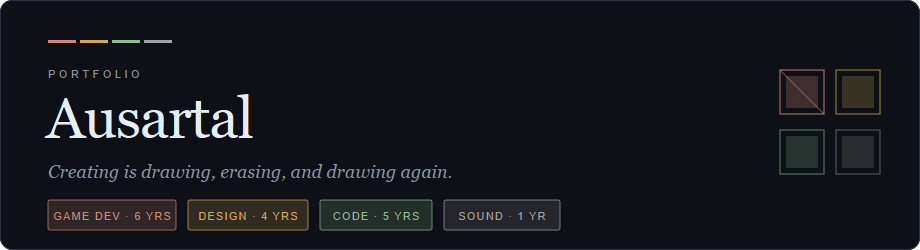
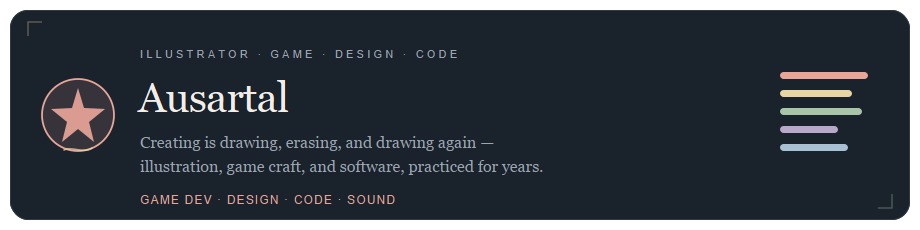
Pastel illustrator hero; Practice full-width without side image

Changed region(s): [[0.0, 0.0, 1.0, 1.0], [0.1522, 0.213, 0.3348, 0.2739], [0.3652, 0.213, 0.5174, 0.2739]]

diff --git a/gen_assets.py b/gen_assets.py
@@ -1,239 +1,83 @@
-"""Generate colored-but-flat hero + API-driven stats panel."""
-import cairosvg, json, os, base64
+import cairosvg
 from pathlib import Path
-from urllib.request import Request, urlopen
 
 OUT = Path(r"C:\Users\ahmad\Documents\College\Subjects\Data Mining\github-profile\assets")
-TOKEN = os.environ.get("GH_TOKEN", "")
 
-INK = "#0D1117"
-PANEL = "#11171F"
-LINE = "#2A3340"
-MUTED = "#8B949E"
-PAPER = "#E6EDF3"
+# Pastel, refined — illustrator studio, not AI neon
+INK = "#121820"
+PANEL = "#1A222B"
+LINE = "#2F3A45"
+MUTED = "#9AA5B1"
+PAPER = "#F2EDE6"
 
-# warm, flat accents (no glow / no radial)
-CLAY = "#D08770"
-GOLD = "#D4A857"
-SAGE = "#8FBC8F"
-STONE = "#A8A29E"
+# pastel accents
+CORAL = "#E8A598"   # soft coral
+BUTTER = "#E8D5A3"  # butter
+SAGE = "#A8C5A8"    # sage
+LILAC = "#B8A9C9"   # lilac
+SKY = "#A8C0D4"     # dusty sky
 
-def gh(path):
-    req = Request(f"https://api.github.com{path}", headers={
-        "Authorization": f"Bearer {TOKEN}",
-        "User-Agent": "ausartal-profile",
-        "Accept": "application/vnd.github+json",
-    })
-    with urlopen(req, timeout=30) as r:
-        return json.loads(r.read())
+hero = f'''<svg xmlns="http://www.w3.org/2000/svg" width="920" height="230" viewBox="0 0 920 230">
+  <!-- card -->
+  <rect x="10" y="10" width="900" height="210" rx="18" fill="{PANEL}"/>
+  <rect x="10.5" y="10.5" width="899" height="209" rx="17.5" fill="none" stroke="{LINE}"/>
 
-user = gh("/users/ausartal")
-repos = gh("/users/ausartal/repos?per_page=100&sort=updated")
-langs = {}
-for repo in repos:
-    if repo.get("fork") or not repo.get("language"):
-        continue
-    langs[repo["language"]] = langs.get(repo["language"], 0) + 1
-top = sorted(langs.items(), key=lambda x: -x[1])[:5]
-maxc = top[0][1] if top else 1
+  <!-- illustrator mark: nib / pen star hybrid -->
+  <circle cx="78" cy="115" r="36" stroke="{CORAL}" stroke-width="1.8" fill="{CORAL}" fill-opacity="0.14"/>
+  <path d="M78 88 L 84 108 L 105 109 L 89 122 L 94 142 L 78 129 L 62 142 L 67 122 L 51 109 L 72 108 Z" fill="{CORAL}" opacity="0.92"/>
+  <!-- nib stroke under star -->
+  <path d="M64 150 C 72 146, 84 154, 92 148" stroke="{BUTTER}" stroke-width="1.6" stroke-linecap="round" fill="none" opacity="0.75"/>
 
-# ── HERO: colored, flat ──────────────────────────────────
-hero = f'''<svg xmlns="http://www.w3.org/2000/svg" width="920" height="250" viewBox="0 0 920 250">
-  <rect width="920" height="250" rx="12" fill="{INK}"/>
-  <rect x="0.5" y="0.5" width="919" height="249" rx="11.5" fill="none" stroke="{LINE}"/>
+  <!-- overline -->
+  <text x="140" y="58" font-family="ui-monospace, SFMono-Regular, Menlo, monospace" font-size="11" fill="{MUTED}" letter-spacing="3.2">ILLUSTRATOR  ·  GAME  ·  DESIGN  ·  CODE</text>
 
-  <!-- color rules, flat -->
-  <rect x="48" y="40" width="28" height="3" fill="{CLAY}"/>
-  <rect x="80" y="40" width="28" height="3" fill="{GOLD}"/>
-  <rect x="112" y="40" width="28" height="3" fill="{SAGE}"/>
-  <rect x="144" y="40" width="28" height="3" fill="{STONE}"/>
+  <!-- name -->
+  <text x="138" y="112" font-family="Georgia, 'Times New Roman', serif" font-size="42" fill="{PAPER}" letter-spacing="-0.8">Ausartal</text>
 
-  <text x="48" y="78" font-family="ui-monospace, SFMono-Regular, Menlo, monospace" font-size="11" fill="{MUTED}" letter-spacing="3.5">PORTFOLIO</text>
+  <!-- subtitle -->
+  <text x="140" y="148" font-family="Georgia, 'Times New Roman', serif" font-size="16" fill="{MUTED}">Creating is drawing, erasing, and drawing again —</text>
+  <text x="140" y="172" font-family="Georgia, 'Times New Roman', serif" font-size="16" fill="{MUTED}">illustration, game craft, and software, practiced for years.</text>
 
-  <text x="46" y="138" font-family="Georgia, 'Times New Roman', serif" font-size="58" fill="{PAPER}" letter-spacing="-1.2">Ausartal</text>
+  <!-- badge line -->
+  <text x="140" y="204" font-family="ui-monospace, SFMono-Regular, Menlo, monospace" font-size="12" fill="{CORAL}" letter-spacing="1.15">GAME DEV  ·  DESIGN  ·  CODE  ·  SOUND</text>
 
-  <text x="48" y="178" font-family="Georgia, 'Times New Roman', serif" font-style="italic" font-size="18" fill="{MUTED}">Creating is drawing, erasing, and drawing again.</text>
+  <!-- pastel accent bars -->
+  <rect x="780" y="72" width="88" height="7" rx="3.5" fill="{CORAL}"/>
+  <rect x="780" y="90" width="72" height="7" rx="3.5" fill="{BUTTER}"/>
+  <rect x="780" y="108" width="82" height="7" rx="3.5" fill="{SAGE}"/>
+  <rect x="780" y="126" width="58" height="7" rx="3.5" fill="{LILAC}"/>
+  <rect x="780" y="144" width="68" height="7" rx="3.5" fill="{SKY}"/>
 
-  <!-- colored flat chips -->
-  <g font-family="ui-monospace, SFMono-Regular, Menlo, monospace" font-size="11">
-    <rect x="48" y="200" width="128" height="30" rx="2" fill="{CLAY}" fill-opacity="0.18" stroke="{CLAY}" stroke-opacity="0.7"/>
-    <text x="112" y="220" text-anchor="middle" fill="{CLAY}" letter-spacing="1.2">GAME DEV · 6 YRS</text>
-
-    <rect x="188" y="200" width="120" height="30" rx="2" fill="{GOLD}" fill-opacity="0.18" stroke="{GOLD}" stroke-opacity="0.7"/>
-    <text x="248" y="220" text-anchor="middle" fill="{GOLD}" letter-spacing="1.2">DESIGN · 4 YRS</text>
-
-    <rect x="320" y="200" width="112" height="30" rx="2" fill="{SAGE}" fill-opacity="0.18" stroke="{SAGE}" stroke-opacity="0.7"/>
-    <text x="376" y="220" text-anchor="middle" fill="{SAGE}" letter-spacing="1.2">CODE · 5 YRS</text>
-
-    <rect x="444" y="200" width="116" height="30" rx="2" fill="{STONE}" fill-opacity="0.15" stroke="{STONE}" stroke-opacity="0.7"/>
-    <text x="502" y="220" text-anchor="middle" fill="{STONE}" letter-spacing="1.2">SOUND · 1 YR</text>
-  </g>
-
-  <!-- flat geometric, no glow -->
-  <g fill="none" stroke-width="1.2">
-    <rect x="780" y="70" width="44" height="44" stroke="{CLAY}" stroke-opacity="0.75"/>
-    <line x1="780" y1="70" x2="824" y2="114" stroke="{CLAY}" stroke-opacity="0.45"/>
-    <rect x="836" y="70" width="44" height="44" stroke="{GOLD}" stroke-opacity="0.65"/>
-    <rect x="780" y="130" width="44" height="44" stroke="{SAGE}" stroke-opacity="0.55"/>
-    <rect x="836" y="130" width="44" height="44" stroke="{STONE}" stroke-opacity="0.45"/>
-  </g>
-  <g>
-    <rect x="786" y="76" width="32" height="32" fill="{CLAY}" fill-opacity="0.25"/>
-    <rect x="842" y="76" width="32" height="32" fill="{GOLD}" fill-opacity="0.22"/>
-    <rect x="786" y="136" width="32" height="32" fill="{SAGE}" fill-opacity="0.2"/>
-    <rect x="842" y="136" width="32" height="32" fill="{STONE}" fill-opacity="0.18"/>
-  </g>
+  <!-- soft corner ticks -->
+  <path d="M28 36 L 28 22 L 42 22" stroke="{BUTTER}" stroke-width="1.2" opacity="0.4" fill="none"/>
+  <path d="M892 194 L 892 208 L 878 208" stroke="{SAGE}" stroke-width="1.2" opacity="0.4" fill="none"/>
 </svg>'''
 
-# ── FIGURES: colored numbers, flat ───────────────────────
-figures = f'''<svg xmlns="http://www.w3.org/2000/svg" width="920" height="180" viewBox="0 0 920 180">
-  <rect width="920" height="180" rx="10" fill="{INK}"/>
-  <rect x="0.5" y="0.5" width="919" height="179" rx="9.5" fill="none" stroke="{LINE}"/>
+# Practice panel used as full-width strip under Practice text (optional header art)
+practice = f'''<svg xmlns="http://www.w3.org/2000/svg" width="920" height="120" viewBox="0 0 920 120">
+  <rect x="10" y="10" width="900" height="100" rx="14" fill="{PANEL}"/>
+  <rect x="10.5" y="10.5" width="899" height="99" rx="13.5" fill="none" stroke="{LINE}"/>
 
-  <text x="36" y="36" font-family="ui-monospace, SFMono-Regular, Menlo, monospace" font-size="10" fill="{MUTED}" letter-spacing="3">SELECTED FIGURES</text>
-  <rect x="36" y="46" width="28" height="2" fill="{CLAY}"/>
-  <rect x="68" y="46" width="28" height="2" fill="{GOLD}"/>
-  <rect x="100" y="46" width="28" height="2" fill="{SAGE}"/>
-  <rect x="132" y="46" width="28" height="2" fill="{STONE}"/>
+  <text x="36" y="42" font-family="ui-monospace, SFMono-Regular, Menlo, monospace" font-size="10" fill="{MUTED}" letter-spacing="2.8">YEARS OF PRACTICE</text>
 
-  <text x="36" y="110" font-family="Georgia, 'Times New Roman', serif" font-size="52" fill="{CLAY}">06</text>
-  <text x="36" y="138" font-family="Georgia, 'Times New Roman', serif" font-size="13" fill="{PAPER}">years making games</text>
-  <text x="36" y="158" font-family="ui-monospace, SFMono-Regular, Menlo, monospace" font-size="9" fill="{MUTED}" letter-spacing="1.4">UNREAL · GODOT · UNITY · RBLX</text>
+  <!-- pastel mini-bars full width -->
+  <rect x="36" y="58" width="200" height="6" rx="3" fill="{CORAL}"/>
+  <rect x="248" y="58" width="140" height="6" rx="3" fill="{BUTTER}"/>
+  <rect x="400" y="58" width="175" height="6" rx="3" fill="{SAGE}"/>
+  <rect x="587" y="58" width="40" height="6" rx="3" fill="{LILAC}"/>
 
-  <line x1="230" y1="64" x2="230" y2="158" stroke="{LINE}"/>
+  <text x="36" y="88" font-family="Georgia, 'Times New Roman', serif" font-size="13" fill="{PAPER}">06 games</text>
+  <text x="150" y="88" font-family="Georgia, 'Times New Roman', serif" font-size="13" fill="{MUTED}">04 design</text>
+  <text x="270" y="88" font-family="Georgia, 'Times New Roman', serif" font-size="13" fill="{MUTED}">05 code</text>
+  <text x="380" y="88" font-family="Georgia, 'Times New Roman', serif" font-size="13" fill="{MUTED}">01 sound</text>
 
-  <text x="270" y="110" font-family="Georgia, 'Times New Roman', serif" font-size="52" fill="{GOLD}">04</text>
-  <text x="270" y="138" font-family="Georgia, 'Times New Roman', serif" font-size="13" fill="{PAPER}">years designing</text>
-  <text x="270" y="158" font-family="ui-monospace, SFMono-Regular, Menlo, monospace" font-size="9" fill="{MUTED}" letter-spacing="1.4">FIGMA · MAYA · ADOBE · CSP</text>
-
-  <line x1="470" y1="64" x2="470" y2="158" stroke="{LINE}"/>
-
-  <text x="510" y="110" font-family="Georgia, 'Times New Roman', serif" font-size="52" fill="{SAGE}">05</text>
-  <text x="510" y="138" font-family="Georgia, 'Times New Roman', serif" font-size="13" fill="{PAPER}">years writing code</text>
-  <text x="510" y="158" font-family="ui-monospace, SFMono-Regular, Menlo, monospace" font-size="9" fill="{MUTED}" letter-spacing="1.4">C · C++ · C# · PYTHON · TS</text>
-
-  <line x1="710" y1="64" x2="710" y2="158" stroke="{LINE}"/>
-
-  <text x="750" y="110" font-family="Georgia, 'Times New Roman', serif" font-size="52" fill="{STONE}">01</text>
-  <text x="750" y="138" font-family="Georgia, 'Times New Roman', serif" font-size="13" fill="{PAPER}">year scoring sound</text>
-  <text x="750" y="158" font-family="ui-monospace, SFMono-Regular, Menlo, monospace" font-size="9" fill="{MUTED}" letter-spacing="1.4">FL STUDIO · CAKEWALK</text>
+  <rect x="800" y="36" width="64" height="6" rx="3" fill="{CORAL}" opacity="0.7"/>
+  <rect x="800" y="52" width="52" height="6" rx="3" fill="{BUTTER}" opacity="0.7"/>
+  <rect x="800" y="68" width="58" height="6" rx="3" fill="{SAGE}" opacity="0.7"/>
 </svg>'''
 
-# ── PRACTICE bars: colored flat ──────────────────────────
-practice = f'''<svg xmlns="http://www.w3.org/2000/svg" width="400" height="300" viewBox="0 0 400 300">
-  <rect width="400" height="300" rx="10" fill="{PANEL}"/>
-  <rect x="0.5" y="0.5" width="399" height="299" rx="9.5" fill="none" stroke="{LINE}"/>
-
-  <text x="28" y="40" font-family="ui-monospace, SFMono-Regular, Menlo, monospace" font-size="10" fill="{MUTED}" letter-spacing="2.5">YEARS OF PRACTICE</text>
-  <rect x="28" y="50" width="48" height="2" fill="{CLAY}"/>
-
-  <text x="28" y="92" font-family="Georgia, 'Times New Roman', serif" font-size="14" fill="{PAPER}">Game Development</text>
-  <text x="360" y="92" font-family="Georgia, 'Times New Roman', serif" font-size="20" fill="{CLAY}" text-anchor="end">6</text>
-  <rect x="28" y="104" width="332" height="4" fill="#21262D"/>
-  <rect x="28" y="104" width="332" height="4" fill="{CLAY}"/>
-
-  <text x="28" y="146" font-family="Georgia, 'Times New Roman', serif" font-size="14" fill="{PAPER}">Illustration &amp; Design</text>
-  <text x="360" y="146" font-family="Georgia, 'Times New Roman', serif" font-size="20" fill="{GOLD}" text-anchor="end">4</text>
-  <rect x="28" y="158" width="332" height="4" fill="#21262D"/>
-  <rect x="28" y="158" width="221" height="4" fill="{GOLD}"/>
-
-  <text x="28" y="200" font-family="Georgia, 'Times New Roman', serif" font-size="14" fill="{PAPER}">Code &amp; Engineering</text>
-  <text x="360" y="200" font-family="Georgia, 'Times New Roman', serif" font-size="20" fill="{SAGE}" text-anchor="end">5</text>
-  <rect x="28" y="212" width="332" height="4" fill="#21262D"/>
-  <rect x="28" y="212" width="276" height="4" fill="{SAGE}"/>
-
-  <text x="28" y="254" font-family="Georgia, 'Times New Roman', serif" font-size="14" fill="{PAPER}">Music &amp; Sound</text>
-  <text x="360" y="254" font-family="Georgia, 'Times New Roman', serif" font-size="20" fill="{STONE}" text-anchor="end">1</text>
-  <rect x="28" y="266" width="332" height="4" fill="#21262D"/>
-  <rect x="28" y="266" width="62" height="4" fill="{STONE}"/>
-</svg>'''
-
-# ── STATS panel from live API (replaces broken vercel widgets) ──
-def esc(s):
-    return (s or "").replace("&", "&amp;").replace("<", "&lt;").replace(">", "&gt;")
-
-lang_rows = []
-colors = [CLAY, GOLD, SAGE, STONE, MUTED]
-for i, (name, count) in enumerate(top):
-    y = 86 + i * 28
-    w = int(180 * (count / maxc))
-    c = colors[i % len(colors)]
-    lang_rows.append(
-        f'<text x="36" y="{y}" font-family="ui-monospace, SFMono-Regular, Menlo, monospace" font-size="12" fill="{PAPER}">{esc(name)}</text>\n'
-        f'  <rect x="160" y="{y-10}" width="180" height="6" fill="#21262D"/>\n'
-        f'  <rect x="160" y="{y-10}" width="{max(w,8)}" height="6" fill="{c}"/>\n'
-        f'  <text x="356" y="{y}" font-family="ui-monospace, SFMono-Regular, Menlo, monospace" font-size="11" fill="{MUTED}">{count}</text>'
-    )
-
-stars = sum(r.get("stargazers_count", 0) or 0 for r in repos)
-stats = f'''<svg xmlns="http://www.w3.org/2000/svg" width="920" height="230" viewBox="0 0 920 230">
-  <rect width="920" height="230" rx="10" fill="{INK}"/>
-  <rect x="0.5" y="0.5" width="919" height="229" rx="9.5" fill="none" stroke="{LINE}"/>
-
-  <text x="36" y="36" font-family="ui-monospace, SFMono-Regular, Menlo, monospace" font-size="10" fill="{MUTED}" letter-spacing="3">GITHUB SNAPSHOT</text>
-  <rect x="36" y="46" width="28" height="2" fill="{CLAY}"/>
-  <rect x="68" y="46" width="28" height="2" fill="{GOLD}"/>
-  <rect x="100" y="46" width="28" height="2" fill="{SAGE}"/>
-
-  <!-- metrics -->
-  <text x="36" y="96" font-family="Georgia, 'Times New Roman', serif" font-size="36" fill="{PAPER}">{user.get('public_repos', 0)}</text>
-  <text x="36" y="118" font-family="ui-monospace, SFMono-Regular, Menlo, monospace" font-size="10" fill="{MUTED}" letter-spacing="1.5">REPOSITORIES</text>
-
-  <text x="150" y="96" font-family="Georgia, 'Times New Roman', serif" font-size="36" fill="{CLAY}">{user.get('followers', 0)}</text>
-  <text x="150" y="118" font-family="ui-monospace, SFMono-Regular, Menlo, monospace" font-size="10" fill="{MUTED}" letter-spacing="1.5">FOLLOWERS</text>
-
-  <text x="260" y="96" font-family="Georgia, 'Times New Roman', serif" font-size="36" fill="{GOLD}">{stars}</text>
-  <text x="260" y="118" font-family="ui-monospace, SFMono-Regular, Menlo, monospace" font-size="10" fill="{MUTED}" letter-spacing="1.5">STARS EARNED</text>
-
-  <text x="380" y="96" font-family="Georgia, 'Times New Roman', serif" font-size="36" fill="{SAGE}">{len(repos)}</text>
-  <text x="380" y="118" font-family="ui-monospace, SFMono-Regular, Menlo, monospace" font-size="10" fill="{MUTED}" letter-spacing="1.5">PUBLIC WORKS</text>
-
-  <line x1="500" y1="56" x2="500" y2="210" stroke="{LINE}"/>
-
-  <text x="530" y="40" font-family="ui-monospace, SFMono-Regular, Menlo, monospace" font-size="10" fill="{MUTED}" letter-spacing="2">TOP LANGUAGES</text>
-  {"".join(f'<text x="530" y="{70+i*22}" font-family="ui-monospace, SFMono-Regular, Menlo, monospace" font-size="11" fill="{colors[i%len(colors)]}">{esc(n)}</text>' for i, (n, c) in enumerate(top))}
-
-  <!-- small color legend -->
-  <rect x="36" y="160" width="28" height="2" fill="{CLAY}"/>
-  <rect x="68" y="160" width="28" height="2" fill="{GOLD}"/>
-  <rect x="100" y="160" width="28" height="2" fill="{SAGE}"/>
-  <rect x="132" y="160" width="28" height="2" fill="{STONE}"/>
-  <text x="36" y="190" font-family="Georgia, 'Times New Roman', serif" font-style="italic" font-size="13" fill="{MUTED}">data pulled from the GitHub profile</text>
-</svg>'''
-
-# ── STACK: keep monochrome (user asked earlier) ──────────
-stack = f'''<svg xmlns="http://www.w3.org/2000/svg" width="560" height="190" viewBox="0 0 560 190">
-  <rect width="560" height="190" rx="10" fill="{PANEL}"/>
-  <rect x="0.5" y="0.5" width="559" height="189" rx="9.5" fill="none" stroke="{LINE}"/>
-  <text x="24" y="32" font-family="ui-monospace, SFMono-Regular, Menlo, monospace" font-size="10" fill="{MUTED}" letter-spacing="2.5">CORE MATERIALS</text>
-  <rect x="24" y="42" width="40" height="1" fill="{PAPER}" opacity="0.5"/>
-
-  <g font-family="ui-monospace, SFMono-Regular, Menlo, monospace" font-size="11" fill="{PAPER}">
-    <rect x="24" y="58" width="88" height="28" rx="14" fill="#0D1117" stroke="{PAPER}" stroke-opacity="0.55"/><text x="68" y="76" text-anchor="middle">Unreal</text>
-    <rect x="120" y="58" width="88" height="28" rx="14" fill="#0D1117" stroke="{PAPER}" stroke-opacity="0.55"/><text x="164" y="76" text-anchor="middle">Godot 4</text>
-    <rect x="216" y="58" width="88" height="28" rx="14" fill="#0D1117" stroke="{PAPER}" stroke-opacity="0.55"/><text x="260" y="76" text-anchor="middle">Unity</text>
-    <rect x="312" y="58" width="132" height="28" rx="14" fill="#0D1117" stroke="{PAPER}" stroke-opacity="0.55"/><text x="378" y="76" text-anchor="middle">Pixel Game Maker</text>
-    <rect x="452" y="58" width="84" height="28" rx="14" fill="#0D1117" stroke="{PAPER}" stroke-opacity="0.55"/><text x="494" y="76" text-anchor="middle">Roblox</text>
-
-    <rect x="24" y="98" width="88" height="28" rx="14" fill="{PAPER}" fill-opacity="0.08" stroke="{PAPER}" stroke-opacity="0.35"/><text x="68" y="116" text-anchor="middle" fill="{MUTED}">Figma</text>
-    <rect x="120" y="98" width="88" height="28" rx="14" fill="{PAPER}" fill-opacity="0.08" stroke="{PAPER}" stroke-opacity="0.35"/><text x="164" y="116" text-anchor="middle" fill="{MUTED}">Maya</text>
-    <rect x="216" y="98" width="88" height="28" rx="14" fill="{PAPER}" fill-opacity="0.08" stroke="{PAPER}" stroke-opacity="0.35"/><text x="260" y="116" text-anchor="middle" fill="{MUTED}">Adobe</text>
-    <rect x="312" y="98" width="112" height="28" rx="14" fill="{PAPER}" fill-opacity="0.08" stroke="{PAPER}" stroke-opacity="0.35"/><text x="368" y="116" text-anchor="middle" fill="{MUTED}">Clip Studio</text>
-    <rect x="432" y="98" width="104" height="28" rx="14" fill="{PAPER}" fill-opacity="0.08" stroke="{PAPER}" stroke-opacity="0.35"/><text x="484" y="116" text-anchor="middle" fill="{MUTED}">Photoshop</text>
-
-    <rect x="24" y="138" width="88" height="28" rx="14" fill="#0D1117" stroke="{PAPER}" stroke-opacity="0.55"/><text x="68" y="156" text-anchor="middle">C / C++</text>
-    <rect x="120" y="138" width="64" height="28" rx="14" fill="#0D1117" stroke="{PAPER}" stroke-opacity="0.55"/><text x="152" y="156" text-anchor="middle">C#</text>
-    <rect x="192" y="138" width="80" height="28" rx="14" fill="#0D1117" stroke="{PAPER}" stroke-opacity="0.55"/><text x="232" y="156" text-anchor="middle">Python</text>
-    <rect x="280" y="138" width="64" height="28" rx="14" fill="#0D1117" stroke="{PAPER}" stroke-opacity="0.55"/><text x="312" y="156" text-anchor="middle">Java</text>
-    <rect x="352" y="138" width="96" height="28" rx="14" fill="#0D1117" stroke="{PAPER}" stroke-opacity="0.55"/><text x="400" y="156" text-anchor="middle">TypeScript</text>
-    <rect x="456" y="138" width="80" height="28" rx="14" fill="#0D1117" stroke="{PAPER}" stroke-opacity="0.55"/><text x="496" y="156" text-anchor="middle">FL Studio</text>
-  </g>
-</svg>'''
-
-for name, svg in [("hero.svg", hero), ("figures.svg", figures), ("practice.svg", practice), ("stats.svg", stats), ("stack.svg", stack)]:
+for name, svg, w in [("hero.svg", hero, 920), ("practice.svg", practice, 920)]:
     (OUT / name).write_text(svg, encoding="utf-8")
-    w = 800 if name == "practice.svg" else 920
     cairosvg.svg2png(bytestring=svg.encode("utf-8"), write_to=str(OUT / name.replace(".svg", ".png")), output_width=w)
-    print(f"{name} ok")
-
+    print(name, "ok")
 print("done")

diff --git a/README.md b/README.md
@@ -6,10 +6,6 @@
 
 <br>
 
-<table>
-<tr>
-<td width="58%" valign="top">
-
 ## Practice
 
 Game development, visual design, and engineering — crafts practiced for years, not weekend side quests.
@@ -17,25 +13,12 @@ Game development, visual design, and engineering — crafts practiced for years,
 Sketch. Prototype. Erase. Ship.  
 Then draw again.
 
-<br>
-
 | Discipline | Yrs | Tools |
 |:--|:-:|:--|
 | **Game Development** | 6 | Unreal Engine 4 · Godot 4 · Unity · Pixel Game Maker MV/XV · Roblox Studio |
 | **Illustration & Graphic Design** | 4 | Figma · Maya · Adobe Suite · Clip Studio Paint |
 | **Code & Engineering** | 5 | C · C++ · C# · Pascal · Java · Python · TypeScript |
 | **Music & Sound** | 1 | FL Studio · Cakewalk by BandLab |
-
-</td>
-<td width="42%" valign="top">
-
-<br>
-
-<img width="100%" alt="Years of practice" src="https://raw.githubusercontent.com/ausartal/ausartal/main/assets/practice.png" />
-
-</td>
-</tr>
-</table>
 
 ---
 
